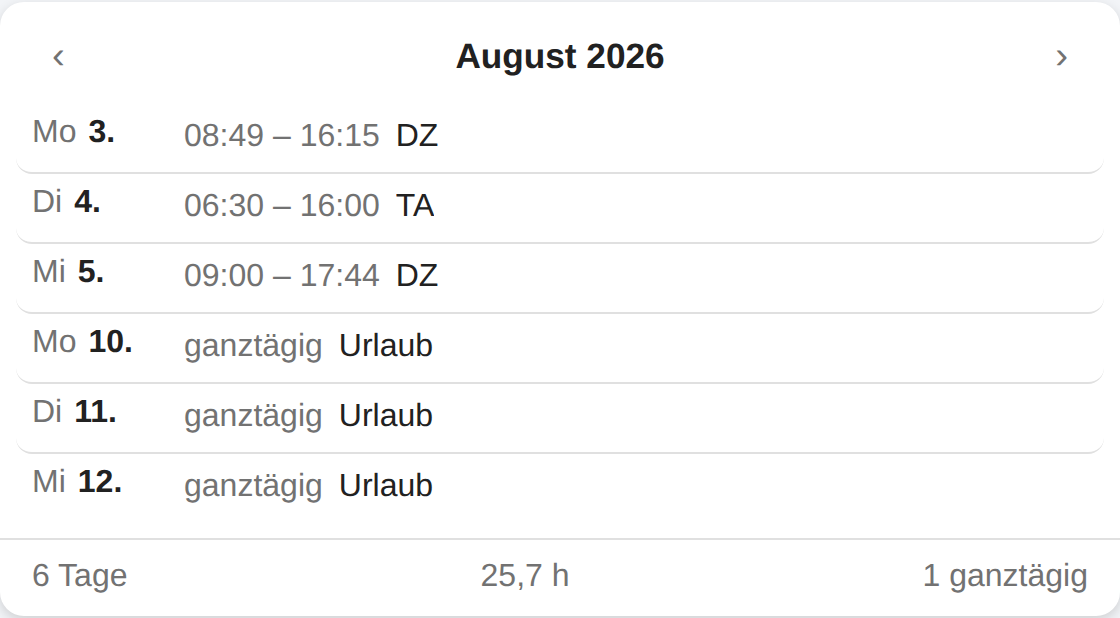
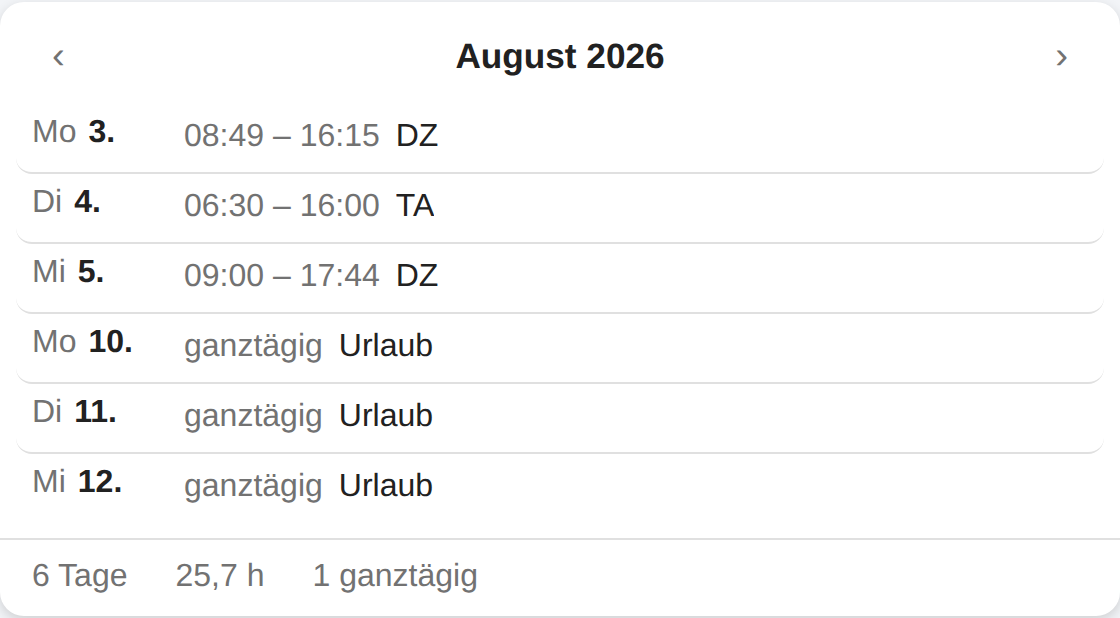
Fusszeile linksbuendig mit festem Abstand statt verteilt
`justify-content: space-between` verteilte die Werte ueber die ganze Breite.
Mit DREI Werten sah das gut aus — nur erscheint "1 ganztaegig" ausschliesslich
dann, wenn der Monat einen ganztaegigen Termin hatte. Ein reiner
Dienstplan-Monat zeigt dauerhaft ZWEI Werte, und das ist der Regelfall.

Gemessen im Chromium, Fusszeile 560 px breit, Spans als Kaesten:

  vorher, zwei Werte:  "3 Tage" 46-94   "25,7 h" 530-574   -> 436 px Leerraum
  nachher, zwei Werte: "3 Tage" 46-94   "25,7 h" 118-162
  nachher, drei Werte: dazu "1 ganztaegig" 186-269

Die ersten beiden Werte stehen jetzt an derselben Stelle, egal ob der dritte da
ist. Vorher sprang die Zeile, je nachdem ob im Monat Urlaub lag.

Nebenbefund aus derselben Messung, bewusst NICHT nachgeregelt: Die Tagesliste
beginnt ihre Inhaltsspalte bei x=122, der zweite Fusswert steht bei x=118 —
vier Pixel daneben. Auf 24 px Abstand zu 28 px zu gehen traefe es fuer "6 Tage"
genau und fuer "31 Tage" wieder nicht, weil die Breite des ersten Wertes den
zweiten schiebt. Eine Flucht, die nur einen Monat lang stimmt, ist schlechter
als gar keine.

Der Stil traegt die Begruendung als Kommentar, damit niemand zurueckdreht. Eine
Pruefung haelt die Entscheidung als Text fest (`gap: 24px`, kein
`space-between`) — sie ersetzt das Bild nicht, sie sichert es ab.

README und Spec zitierten den Fuss noch mit Mittelpunkten, die es nie gab:
beide berichtigt, die Skizze in der Spec auf linksbuendig gestellt (und dabei
[…]

Changed region(s): [[0.2812, 0.8916, 0.5312, 0.9531], [0.8125, 0.9223, 0.9688, 0.9838], [0.1562, 0.8916, 0.25, 0.9531]]

diff --git a/dist/busch-cards.js b/dist/busch-cards.js
@@ -1597,7 +1597,14 @@ const CAL_STIL = `
     white-space:nowrap; }
   .cal-titel { color:var(--primary-text-color); overflow:hidden;
     text-overflow:ellipsis; white-space:nowrap; }
-  .cal-fuss { display:flex; justify-content:space-between; padding:10px 16px;
+  /* Linksbuendig mit festem Abstand, NICHT ueber die Breite verteilt.
+     Gemessen: Mit \`space-between\` sassen bei zwei Werten "3 Tage" und
+     "25,7 h" in den gegenueberliegenden Ecken, 436 px Leerraum dazwischen —
+     und das ist der Regelfall, weil "1 ganztaegig" nur erscheint, wenn es im
+     Monat einen ganztaegigen Termin gab. Die Zeile sprang also, je nachdem ob
+     Urlaub drin war. Mit \`gap\` steht sie ruhig und liest sich als eine
+     Angabe, ohne dass ein Trennzeichen noetig waere. */
+  .cal-fuss { display:flex; justify-content:flex-start; gap:24px; padding:10px 16px;
     border-top:1px solid var(--divider-color); color:var(--secondary-text-color); }
   .cal-hinweis { padding:12px 16px; color:var(--error-color, #db4437); }
   .cal-leermeldung { padding:16px; color:var(--secondary-text-color); }
@@ -1815,9 +1822,8 @@ class BuschCalendarCard extends HTMLElement {
       const s = calSummeStunden(this._alleTermine || [], start, ende);
       const teile = [`${s.tageMitTermin} Tage`, `${calFormatStunden(s.stunden, locale)} h`];
       if (s.ganztags) teile.push(`${s.ganztags} ganztägig`);
-      // Ein Span JE WERT, verteilt ueber `justify-content: space-between` im
-      // Stil. KEIN Trenner dazwischen: auf dem Bildschirm trennt sie der Raum,
-      // und drei Spalten sind genau das, was die Skizze in der Spec zeigt.
+      // Ein Span JE WERT, linksbuendig mit festem `gap` im Stil. KEIN Trenner
+      // dazwischen: auf dem Bildschirm trennt sie der Raum.
       //
       // Wer den Fuss misst, liest die Spans EINZELN (`.cal-fuss span`).
       // `textContent` des Kastens klebt sie zu „6 Tage25,7 h1 ganztägig"

diff --git a/tests/karte.test.js b/tests/karte.test.js
@@ -421,6 +421,26 @@ test("die Fusszeile stellt jeden Wert in eine eigene Spalte", async () => {
   }
 });
 
+/**
+ * Die Layoutentscheidung selbst, als Text festgehalten. Sie ist am Bild
+ * getroffen worden — mit `space-between` sassen bei ZWEI Werten "3 Tage" und
+ * "25,7 h" in den gegenueberliegenden Ecken, 436 px Leerraum dazwischen, und
+ * die Zeile sprang, je nachdem ob der Monat einen ganztaegigen Termin hatte.
+ * Diese Pruefung ersetzt das Bild nicht, sie haelt nur fest, dass die
+ * Entscheidung nicht versehentlich zurueckgedreht wird.
+ */
+test("die Fusszeile steht linksbuendig mit festem Abstand", () => {
+  const { CAL_STIL } = ladeKarte(["CAL_STIL"]);
+  const regel = CAL_STIL.match(/\.cal-fuss \{[^}]*\}/);
+  assert.ok(regel, "es muss eine Regel fuer .cal-fuss geben");
+  assert.match(regel[0], /gap:\s*24px/, "fester Abstand statt verteilter Leerraum");
+  assert.doesNotMatch(
+    regel[0],
+    /space-between/,
+    "verteilt reisst die Werte bei nur zwei Angaben in die Ecken"
+  );
+});
+
 test("ein ganztaegiger Termin bekommt die dritte Spalte", async () => {
   const jetzt = new Date();
   const tag = (t) =>

diff --git a/docs/superpowers/specs/2026-09-06-kalenderkarte-design.md b/docs/superpowers/specs/2026-09-06-kalenderkarte-design.md
@@ -165,7 +165,7 @@ Eine Zeile je Tag des Monats, chronologisch. Kein Wochenraster.
 │  Mi  03.                             │   ← leerer Tag
 │  Do  04.   ganztägig       Urlaub    │
 ├──────────────────────────────────────┤
-│  20 Tage   168,5 h   1 ganztägig    │   ← nur bei show_total
+│  20 Tage  168,5 h  1 ganztägig       │   ← nur bei show_total
 └──────────────────────────────────────┘
 ```
 
@@ -182,19 +182,27 @@ Eine Zeile je Tag des Monats, chronologisch. Kein Wochenraster.
 ### Die Summe
 
 `show_total` summiert die Dauern aller zeitgebundenen Termine des Monats und
-zeigt sie in Stunden mit einer Nachkommastelle. Jeder Wert steht in einer
-**eigenen Spalte**, verteilt über `justify-content: space-between` — wie in der
-Skizze oben. Kein Trennzeichen dazwischen: Auf dem Bildschirm trennt sie der
-Raum. **Ganztägige Termine gehen nicht in die Stundensumme ein**, sondern
-werden getrennt gezählt. Sie mit 24 Stunden zu verrechnen würde die Summe
-verfälschen.
+zeigt sie in Stunden mit einer Nachkommastelle. Jeder Wert steht in einem
+eigenen Element, **linksbündig nebeneinander mit 24 px Abstand**
+(`justify-content: flex-start; gap: 24px`). Kein Trennzeichen dazwischen: Auf
+dem Bildschirm trennt sie der Abstand. **Ganztägige Termine gehen nicht in die
+Stundensumme ein**, sondern werden getrennt gezählt. Sie mit 24 Stunden zu
+verrechnen würde die Summe verfälschen.
+
+**Warum linksbündig und nicht über die Breite verteilt:** „1 ganztägig"
+erscheint nur, wenn der Monat einen ganztägigen Termin hatte — ein reiner
+Dienstplan-Monat zeigt dauerhaft **zwei** Werte. Mit `space-between` saßen die
+beiden dann in den gegenüberliegenden Ecken, 436 px Leerraum dazwischen
+(gemessen im Chromium, Fußzeile 560 px breit), und die Zeile sprang, je nachdem
+ob Urlaub im Monat lag. Mit festem Abstand stehen die ersten beiden Werte immer
+an derselben Stelle.
 
 **Wer den Fuß misst, liest die Spans einzeln** (`.cal-fuss span`).
 `textContent` des Kastens kennt den Raum zwischen ihnen nicht und liefert
 „20 Tage168,5 h2 ganztägig" am Stück. In `v0.7.1` wurde daraufhin kurz ein
-Mittelpunkt eingebaut und alles in einen Span gelegt — damit war
-`space-between` toter Code und die Zeile klebte links. Zurückgenommen: Die
-Messung passt sich der Darstellung an, nicht umgekehrt.
+Mittelpunkt eingebaut und alles in einen Span gelegt — das änderte die
+Darstellung, damit die Messung einfacher wird. Zurückgenommen: Die Messung
+passt sich der Darstellung an, nicht umgekehrt.
 
 Drei Regeln, die die Summe an das binden, was in der Liste darüber steht:
 

diff --git a/README.md b/README.md
@@ -313,8 +313,11 @@ ein Punkt, der immer dieselbe Farbe hat, trägt keine Information.
 
 `show_total` summiert die Dauern aller zeitgebundenen Termine des Monats.
 **Ganztägige Termine gehen nicht in die Stundensumme ein**, sondern werden
-getrennt gezählt („20 Tage · 168,5 h · 1 ganztägig"). Sie mit 24 Stunden zu
-verrechnen würde die Summe verfälschen.
+getrennt gezählt und stehen linksbündig nebeneinander in der Fußzeile:
+`20 Tage` `168,5 h` `1 ganztägig`. Sie mit 24 Stunden zu verrechnen würde die
+Summe verfälschen. Die dritte Angabe erscheint nur, wenn es im Monat einen
+ganztägigen Termin gab; die ersten beiden stehen deshalb an fester Stelle,
+damit die Zeile nicht springt.
 
 Die Summe zählt **nur den gezeigten Monat**: Ein Urlaub vom 25.07. bis 05.08.
 steht im August mit seinen fünf August-Tagen im Fuß, nicht mit zwölf. Und ein
